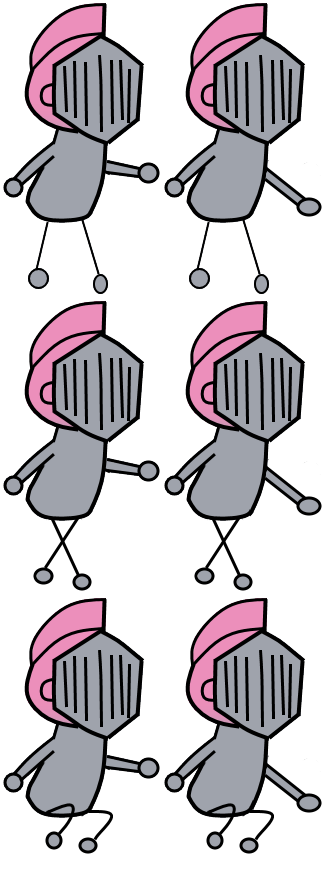
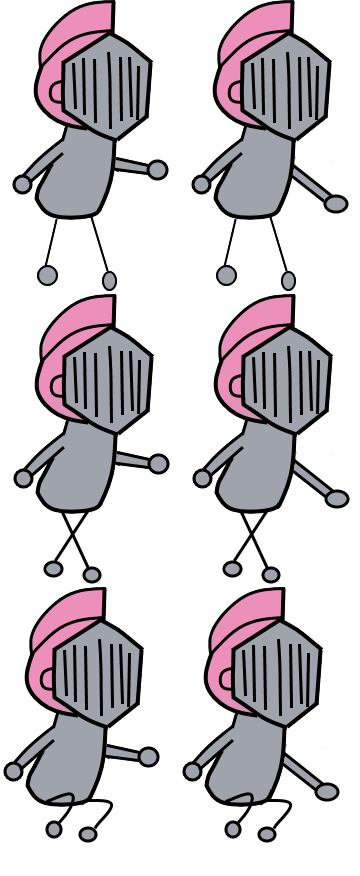
More refactoring + Improve sprite & weapon visuals

Changed region(s): [[0.0, 0.0, 1.0, 0.9863]]

diff --git a/nenequest/src/objects/characters/player.cpp b/nenequest/src/objects/characters/player.cpp
@@ -15,40 +15,81 @@
 using namespace sf;
 using namespace std;
 
+//Weapon placement - edited in Player constructor
+int weaponXOffset = 220;
+int weaponYOffset = 180;
+int weaponXOffsetVariation = 3;
+int weaponYOffsetVariation = 3;
+
+//Z Hitbox sizes
+float z_offset_x = 0.16;
+float z_offset_y = 0.8;
+float z_width = 0.5;
+float z_height = 0.2;
+
+//Sprite animation tiles
+FloatRect fwalk1normal = FloatRect(0, 0, 0.5f, 0.333333f);
+FloatRect fwalk2normal = FloatRect(0, 0.333333f, 0.5f, 0.333333f);
+FloatRect fmoddifierAttack = FloatRect(0.5f, 0, 0, 0);
+IntRect walk1normal;
+IntRect walk2normal;
+IntRect moddifierAttack;
+
 Player::Player(Weapon* w, Vector2f position, bool secondPlayer) { // 150,170
 
     this->weapon = w;
     if (!secondPlayer) {
         this->life = new LifeBar(PLAYER_HP, Vector2f(300,100), PlayerID::PLAYER1);
         this->texture.loadFromFile("img/player1.png");
+		weaponXOffset = 235;
+		weaponYOffset = 180;
     } else {
         this->life = new LifeBar(PLAYER_HP, Vector2f(800,100), PlayerID::PLAYER2);
 		this->texture.loadFromFile("img/player2.png");
-    }
-	/////////////////////
-	// Z HITBOX SIZES  //
-	/////////////////////
-	float z_offset_x = 0.16;
-	float z_offset_y = 0.8;
-	float z_width = 0.5;
-	float z_height = 0.2;
-	/////////////////////
+		weaponXOffset = 240;
+		weaponYOffset = 155;
+	}
+
 	this->sprite.setTexture(this->texture);
 	this->sprite.setTextureRect(IntRect(0, 0, this->texture.getSize().x/2, this->texture.getSize().y/3));
+
+	//Hitboxes + debug coloring
 	sf::RectangleShape* h = new sf::RectangleShape();
-	h->setFillColor(sf::Color(255, 0, 0, 128));
+	h->setFillColor(sf::Color(255, 0, 0, 128));	
 	sf::RectangleShape* zh = new sf::RectangleShape();
 	zh->setFillColor(sf::Color(0, 0, 255, 128));
+	
 	hitboxes.push_back(h);
 	zHitboxes.push_back(zh);
+
 	this->hitboxes.at(0)->setPosition(position);
 	this->hitboxes.at(0)->setSize(Vector2f(this->sprite.getLocalBounds().width, this->sprite.getLocalBounds().height));
 	this->zHitboxes.at(0)->setPosition(position + sf::Vector2f(this->sprite.getLocalBounds().width * z_offset_x, this->sprite.getLocalBounds().height * z_offset_y));
 	this->zHitboxes.at(0)->setSize(Vector2f(this->sprite.getLocalBounds().width * z_width, this->sprite.getLocalBounds().height * z_height));
+
     updateAutoSpritePosition();
 
 	// Weapon placement
-    this->weapon->setPosition(position.x + 220, position.y + 180);
+	this->weapon->setPosition(position.x + weaponXOffset, position.y + weaponYOffset);
+
+	//Generate animations rects with sizes
+	vector<FloatRect> fanimationRects = { fwalk1normal, fwalk2normal, fmoddifierAttack };
+	vector<IntRect> animationRects;
+	int sizeX = texture.getSize().x;
+	int sizeY = texture.getSize().y;
+	for each (FloatRect rect in fanimationRects)
+	{
+		IntRect r;
+		r.left = rect.left * sizeX;
+		r.width = rect.width * sizeX;
+		r.top = rect.top * sizeY;
+		r.height = rect.height * sizeY;
+		animationRects.push_back(r);
+	}
+
+	walk1normal = animationRects.at(0);
+	walk2normal = animationRects.at(1);
+	moddifierAttack = animationRects.at(2);
 }
 
 Player::~Player(){
@@ -67,61 +108,63 @@ void Player::attack(){
 
 void Player::equip(Weapon* w){
     this->weapon = w;
-    this->weapon->setPosition(this->getPosition().x + 220, this->getPosition().y + 180);
+    this->weapon->setPosition(this->getPosition().x + weaponXOffset, this->getPosition().y + weaponYOffset);
 }
 
 void Player::draw(sf::RenderTarget& target, sf::RenderStates states) const {
 	Entity::draw(target, states);
-    //target.draw(this->sprite, states);
     target.draw(*this->weapon, states);
     target.draw(*this->life, states);
 }
 
-void Player::update_animation(){
-    this->animation_state = !this->animation_state;
-    if (this->isJumping())
-        return;
-
-    float size_x = texture.getSize().x;
-    float size_y = texture.getSize().y;
-
-    int top_left_x, bottom_right_x, top_left_y, bottom_right_y;
-
-    if (is_attacking) {
-        top_left_x = size_x/2;
-        bottom_right_x = size_x;
-    } else {
-        top_left_x = 0;
-        bottom_right_x = size_x/2;
-    }
-
-    if (this->animation_state) { // jambes croisees
-        top_left_y = size_y/3;
-        bottom_right_y = size_y/3;
-    } else {
-        top_left_y = 0;
-        bottom_right_y = size_y/3;
-    }
-
-    sprite.setTextureRect(IntRect(top_left_x, top_left_y, bottom_right_x, bottom_right_y));
+IntRect IntRectAddition(IntRect a, IntRect b) {
+	IntRect result = IntRect(a.left + b.left, a.top + b.top, a.width + b.width, a.height + b.height);
+	return result;
 }
 
+void Player::update_animation(){
+    this->animation_state = !this->animation_state;
+	int weaponXDecal = weaponXOffset;
+	int weaponYDecal = weaponYOffset;
+	IntRect result;
+    
+	if (this->animation_state) { // jambes croisees
+		result = walk2normal;
+		weaponXDecal += weaponXOffsetVariation;
+		weaponYDecal += weaponYOffsetVariation;
+	}
+	else {
+		result = walk1normal;
+	}
+	
+	if (this->isJumping())
+        return;	// result = IntRectAddition(result, moddifierJump);
+	
+	if (is_attacking)
+		result = IntRectAddition(result, moddifierAttack);
+
+    sprite.setTextureRect(result);
+	this->weapon->setPosition(this->getPosition().x + weaponXDecal, this->getPosition().y + weaponYDecal);
+}
+
+
+// Called every frame by manageMovements->fixPosition->move
 void Player::move(Vector2f g_speed){
 	float elapsedTime = World::getElapsedTime();
-	//float elapsedTime = 1;
     if (clock.getElapsedTime().asSeconds() > this->ANIMATION_DELAY) {
         update_animation();
         clock.restart();
     }
 
 	Entity::move(g_speed);
-	sf::Vector2f v = sf::Vector2f(g_speed.x * elapsedTime, g_speed.y*elapsedTime);
+	//sf::Vector2f v = sf::Vector2f(g_speed.x * elapsedTime, g_speed.y*elapsedTime);
 	this->getWeapon()->move(g_speed);
 }
 
-LifeBar* Player::getLife(){
-    return this->life;
-}
+//Deprecated : use Entity->get/alterHealth()
+//LifeBar* Player::getLife(){
+//    return this->life;
+//}
 
 bool Player::isJumping(){
      return this->is_jumping;
@@ -133,11 +176,11 @@ void Player::toggleJump(){
 
 void Player::setPosition(float x, float y){
 	Entity::setPosition(x, y);
-    this->weapon->setPosition(this->getPosition().x + 220, this->getPosition().y + 180);
+    this->weapon->setPosition(this->getPosition().x + weaponXOffset, this->getPosition().y + weaponYOffset);
 }
 
 void Player::fireArrow(){
-    arrows.push_back(new Arrow(Vector2f(this->getPosition().x + 220, this->getPosition().y + 180), this->getDepth()));
+    arrows.push_back(new Arrow(Vector2f(this->getPosition().x + weaponXOffset, this->getPosition().y + weaponYOffset), this->getDepth()));
 	setShootingState(true);
 }
 
@@ -168,6 +211,7 @@ void Player::manageMovements() {
 	this->fixPosition();
 }
 
+//TODO : remove hardcoded value for cute ones
 sf::Vector2f Player::fixMovements(sf::Vector2f movement) {
 	Vector2f result = Vector2f(movement.x * World::getElapsedTime(), movement.y * World::getElapsedTime());
 	if (this->hitboxes.at(0)->getGlobalBounds().left + result.x < 0)
@@ -191,6 +235,7 @@ sf::Vector2f Player::fixMovements(sf::Vector2f movement) {
 	return result;
 }
 
+//TODO : remove hardcoded value for cute ones
 void Player::fixPosition() {
 	sf::FloatRect bounds = this->hitboxes.at(0)->getGlobalBounds();
 	sf::Vector2f v = Vector2f(0, 0);

diff --git a/nenequest/headers/entity.hpp b/nenequest/headers/entity.hpp
@@ -30,7 +30,9 @@ class Entity : public sf::Drawable
 		virtual bool isDead();
 		float distanceToPosition(sf::Vector2f position);
 		bool isIgnoringDepthOnRendering();
-
+		int getHealth();
+		void alterHealth(int value, bool relative);
+		virtual void handleDeath();
 
 		
 	protected:
@@ -43,9 +45,9 @@ class Entity : public sf::Drawable
 		void updateAutoSpritePosition();
 		sf::Vector2f speed; //not too fond of the name
 		bool ignoreDepthOnRendering = false;
+		int health;
 
 	private:
-
 };
 
 #endif // ENTITY_H

diff --git a/nenequest/src/objects/entity.cpp b/nenequest/src/objects/entity.cpp
@@ -86,3 +86,18 @@ float Entity::distanceToPosition(sf::Vector2f position) {
 bool Entity::isIgnoringDepthOnRendering() {
 	return ignoreDepthOnRendering;
 }
+
+int Entity::getHealth() {
+	return health;
+}
+
+void Entity::alterHealth(int value, bool relative) {
+	if (relative)
+		health += value;
+	else
+		health = value;
+}
+
+void Entity::handleDeath() {
+	//if (health <= 0) { do something }
+} 

diff --git a/nenequest/src/env/game.cpp b/nenequest/src/env/game.cpp
@@ -125,11 +125,6 @@ int Game::run(RenderWindow &app) {
 		World::updateEntities();
 
 		//scroll(elapsedTime, app.getSize());
-		
-		for (Player* p : this->players) {
-			p->update(elapsedTime);
-			//playerMove(p, elapsedTime, app.getSize(), background.getSkyHeight());
-		}
 
 		this->manager->update();
 		background.update();

diff --git a/nenequest/headers/player.hpp b/nenequest/headers/player.hpp
@@ -26,7 +26,7 @@ class Player : public Entity {
         void update(float elapsedTime);
 
         // Life management
-        LifeBar* getLife();
+        //LifeBar* getLife();
 
         // override
 		virtual void draw(sf::RenderTarget& target, sf::RenderStates states = sf::RenderStates::Default) const;
